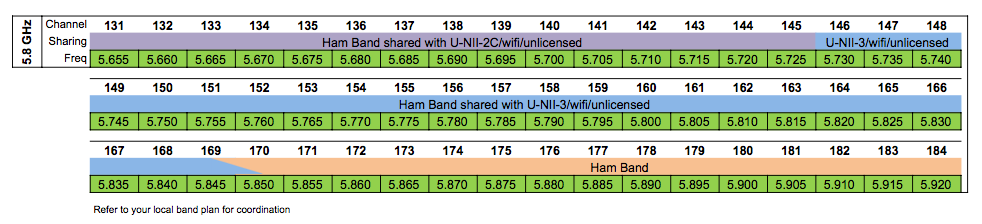
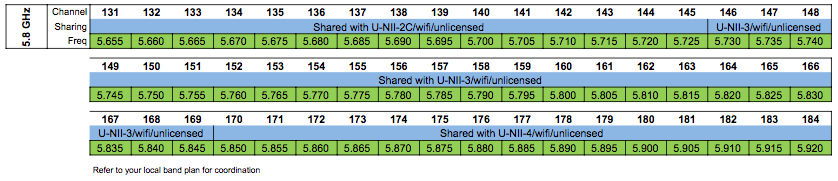
Footnote FCC 9cm sunset ruling (#86)
* Footnote FCC 9cm sunset ruling

Footnote the 2020 FCC ruling to sunset Amateur operations in the 9cm 
band.

* Footnote FCC 9cm sunset ruling

Update 2.4ghz graphic.

* Footnote FCC 9cm sunset ruling

Update U-NII numbering on graphics.

* Footnote FCC 9cm sunset ruling

Remove radiofresnel.com.  Fixes #87

* Footnode FCC 9cm sunset ruling

Add dot-exe to Windows tftp example.

* Footnote FCC 9cm sunset ruling

Include larger graphic for all bands.

* Footnote FCC 9cm sunset ruling

Update iperfspeed URL to point to latest version with fixed security 
vulnerability.

diff --git a/arednNetworkDesign/frequency_bands.rst b/arednNetworkDesign/frequency_bands.rst
@@ -2,26 +2,25 @@
 Radio Spectrum Characteristics
 ==============================
 
-AREDN |trade| networks operate in the microwave radio spectrum, and licensed amateur radio operators have unique access to many of these frequencies. For bands in which amateur operators share the spectrum, there is an increased chance for RF interference which may make some frequencies unusable for AREDN |trade| data networking. For best results, select frequencies that are not shared with other unlicensed users.
+AREDN |trade| networks operate in the microwave radio spectrum, and licensed amateur radio operators have unique access to some of these frequencies. For bands in which amateur operators share the spectrum, there is an increased chance for RF interference which may make some frequencies unusable for AREDN |trade| data networking. For best results, select frequencies that are not being heavily used within the coverage area.
 
-Each band is divided into channels, each of which consists of a 5 MHz frequency offset identified by the center frequency of the channel and assigned a numerical label. In the example below you can see that a selected channel may use more or less of the frequency range based on the chosen channel width. The wider the channel, the more overlap there will be with adjacent channels. Wide channels have the effect of reducing the number of non-overlapping or non-interfering channels that will be available for use. When selecting channels and widths, be sure to use non-overlapping channels. Devices not using the same channel and channel width that overlap will interfere with one another and cannot communicate to coordinate the sharing of bandwidth.
+Each band is divided into channels, each of which consists of a 5 MHz frequency offset identified by the center frequency of the channel and assigned a numerical label. In the example below you can see that a selected channel may use more or less of the frequency range based on the chosen channel width. The wider the channel, the more overlap there will be with adjacent channels. Wide channels have the effect of reducing the number of non-overlapping or non-interfering channels that will be available for use. When selecting channels and widths, be sure to use non-overlapping channels. Devices using channels or channel widths that overlap will interfere with one another and cannot communicate to coordinate the sharing of bandwidth.
 
 .. image:: _images/channel-width-example.png
    :alt: Channel Width Example
    :align: center
 
-All of the 33 cm band is shared with other FCC authorized users. All of the upper channels on the 13 cm band are shared with standard FCC Part 15 :abbr:`WiFi (IEEE 802.11x)` users, as are all of the lower channels on the 5 cm band. The only frequency range which amateur operators do not currently share with non-licensed users is the 9 cm band, in which the US military may occasionally operate radio location units. The following table lists each amateur radio band, frequency range, total bandwidth of allocation, and the number of channels that are available for AREDN |trade| networking.
+Some or all of the bands shown below are shared with other FCC authorized users. For example, all of the upper channels on the 13 cm band are shared with standard FCC Part 15 :abbr:`WiFi (IEEE 802.11x)` users. The following table lists each amateur radio band, frequency range, and the number of channels that are available for AREDN |trade| networking. [footnote]_
 
-=======  =================  ===============  ========
-Band     Frequency Range    Total Bandwidth  Channels
-=======  =================  ===============  ========
-33 cm    902-928   MHz      25 MHz           4
-13 cm    2390-2450 MHz      45 MHz           9
-9  cm    3300-3500 MHz      120 MHz          24
-5  cm    5650-5925 MHz      260 MHz          54
-=======  =================  ===============  ========
+=======  =================  ========
+Band     Frequency Range    Channels
+=======  =================  ========
+33 cm    902-928   MHz      4
+13 cm    2390-2450 MHz      13
+5  cm    5650-5925 MHz      54
+=======  =================  ========
 
-The table above shows that the 9 cm band has the most available bandwidth in its unshared channels, while the 5 cm band has the next largest amount of available bandwidth in unshared channels. The choice of a frequency band for AREDN |trade| networking depends on several different factors, but you can "mix and match" bands in your network design as long as both sides of a radio link use the same band, channel, and channel width.
+The choice of a frequency band for AREDN |trade| networking depends on several different factors, but you can "mix and match" bands in your network design as long as both sides of a radio link use the same band, channel, and channel width.
 
 You have the option of selecting the channel width for each link. When using channels at the top or bottom of a band, be certain that your chosen width will not transmit outside of the FCC Part 97 allocation for that band. Different channel widths may yield better throughput than others. In some areas operators use different channels to isolate links, so they may need to use 10 MHz rather than 20 MHz channels in order to ensure they have enough available channels. Also, long distance links simply have better performance using 10 MHz vs. 20 MHz or 5 MHz channel widths. Test the performance of your links using various channel widths to ensure that they are optimized.
 
@@ -59,21 +58,6 @@ Advantages
 
   One advantage for the 13 cm band is that radio equipment and antenna systems are more readily available and less costly due to higher consumer demand. There is a wide variety of equipment from several manufacturers which supports the AREDN |trade| firmware and operates in this band. With clear line of sight and well-tuned antennas, 2.4 GHz signals can propagate across very long distances.
 
-3.4 GHz Characteristics
------------------------
-
-Disadvantages
-  As mentioned above, there must be clear line of sight and the Fresnel Zone between nodes also must be clear. For a link in the 9 cm band with 10 miles between nodes the first Fresnel Zone radius will be 62 feet, which is less than the 13 cm band discussed above. However, the 60% no blockage radius is still about 37 feet. Consider node :abbr:`AGL (height Above Ground Level)` and terrain in order to minimize obstructions.
-
-  Equipment for the 9 cm band is less readily available and is typically more expensive due to less consumer demand. Care must be taken when selecting radios so as not to confuse them with the more common :abbr:`WiMAX (IEEE 802.16)` devices which are designed for the 3.65 GHz range and are not supported by AREDN |trade| firmware.
-
-.. image:: ../_images/3.4ghz.png
-   :alt: 3.4 GHz Band
-   :align: center
-
-Advantages
-  The main advantage for using the 9 cm band is that it has more available bandwidth for use in unshared channels than any other band. You can select channel widths of 5, 10, or 20 MHz, with larger channel widths providing higher data rates. Remember that reducing the channel width will increase the :abbr:`SNR (Signal to Noise Ratio)` to improve signal quality if that is an issue for a particular link. Equipment in the 9 cm band is well-suited for *Backbone Links* since there is little possibility for interference from other devices sharing these frequencies at tower sites. With clear line of sight and well-tuned antennas, 3.4 GHz signals can propagate across very long distances.
-
 5.8 GHz Characteristics
 -----------------------
 
@@ -85,13 +69,15 @@ Disadvantages
    :align: center
 
 Advantages
-  One advantage for using the 5 cm band is that it contains 54 channels, and many of them at the upper end of the band are under-utilized with less chance of interference. You can choose channel widths of 5, 10, or 20 MHz, with larger channel widths providing higher data rates. Remember that reducing the channel width will increase the :abbr:`SNR (Signal to Noise Ratio)` to improve signal quality if that is an issue for a problem link.
+  One advantage for using the 5 cm band is that it contains 54 channels, and many of them may be under-utilized with less chance of interference. You can choose channel widths of 5, 10, or 20 MHz, with larger channel widths providing higher data rates. Remember that reducing the channel width will increase the :abbr:`SNR (Signal to Noise Ratio)` to improve signal quality if that is an issue for a problem link.
 
   The radio equipment and antenna systems for this band are readily available and are less expensive due to greater consumer demand. There is a wide variety of equipment from several manufacturers which supports the AREDN |trade| firmware and operates across the 54 available channels. Radio and antenna systems for this band which are similar in size to those for other bands will often have higher gain. Devices in the 5 cm band are also well-suited for *Backbone Links* since there is little chance for RF interference from other radios sharing these frequencies at high profile sites. With clear line of sight and well-tuned antennas, 5.8 GHz signals can propagate across very long distances.
 
+Different frequency ranges are available to connect the mesh nodes that are required in order to fulfill the purposes for your network. As you plan the frequencies to be deployed at specific locations, it may be helpful to use a *spectrum analyzer* for identifying ranges that are already in use. The ultimate goal is to have a reliable data network that accomplishes its purpose for providing services to the intended destinations and users.
+
 ----------
 
-Different frequency ranges are available to connect the mesh nodes that are required in order to fulfill the purposes for your network. As you plan the frequencies to be deployed at specific locations, it may be helpful to use a *spectrum analyzer* for identifying ranges that are already in use. The ultimate goal is to have a reliable data network that accomplishes its purpose for providing services to the intended destinations and users.
+.. [footnote] Late in 2020 the `FCC ruled <https://docs.fcc.gov/public/attachments/FCC-20-138A1.pdf>`_ to sunset secondary Amateur allocations in the 9 cm *(3.3-3.5 GHz)* band. Although existing Amateur operations *"may continue while the Commission finalizes plans to reallocate spectrum,"* investing in or implementing new AREDN |trade| devices in this band is not recommended.
 
 
 .. |trade|  unicode:: U+00AE .. Registered Trademark SIGN

diff --git a/arednNetworkDesign/channel_planning.rst b/arednNetworkDesign/channel_planning.rst
@@ -59,17 +59,7 @@ Channel Plans and Frequency Coordination
 
 You may experience poor network performance if there are too many nodes using the same band and channel. Here is a simple example to illustrate the issue: a three-hop path from QTH1 to Tower1 to Tower2 to QTH2. If all links are using the same channel, then only one node at a time can send data. This instantly cuts the throughput by one-third or more and increases latency with protocol overhead. To improve performance you could configure each link to use a different channel, allowing simultaneous transmissions. For example, the collocated tower nodes could be DtD linked via Ethernet, with QTH1 and Tower1 using 5 GHz channel 172 while QTH2 and Tower2 use channel 176. Before this channel plan is implemented it might be possible to have one HD video stream and one VoIP call with frequent dropouts. After the channel plan is implemented it should be possible to have three HD video streams and several VoIP calls simultaneously with few dropouts.
 
-Depending on the frequency band you are using, there are varying options available for assigning non-overlapping unshared channels to your mesh devices. As shown in the chart below, in the 2.4 GHz band using a 5 MHz channel width there are only two non-overlapping channels which are not already shared with other unlicensed users. In the 3.4 GHz band using the even-numbered 10 MHz channels, there are eleven non-overlapping channels. In the 5.8 GHz band using even-numbered 10 MHz channels, there are 25 non-overlapping channels, but only eight of them are not shared with other potential users of the spectrum.
-
-=======  ===============  =================================
-Band     Channel Width    Unshared Non-overlapping Channels
-=======  ===============  =================================
-2.4 GHz  5 MHz            2
-3.4 GHz  10 MHz           11
-5.8 GHz  10 MHz           8
-=======  ===============  =================================
-
-Ideally, RF coverage zones (sometimes called "cells") should use different channels. Overlapping cell coverage can provide broader connectivity, but the overlapping coverage zones should not use overlapping RF frequencies.
+Depending on the frequency band you are using, there are varying options available for assigning non-overlapping channels to your mesh devices. For example, in the 5.8 GHz band using even-numbered 10 MHz channels, there are 25 non-overlapping channels. Ideally, RF coverage zones (sometimes called "cells") should use different channels. Overlapping cell coverage can provide broader connectivity, but the overlapping coverage zones should not use overlapping RF frequencies.
 
 .. image:: _images/channel-reuse-example.png
    :alt: Example Channel Reuse Plan
@@ -91,7 +81,7 @@ Device to Device (DtD) Linking
 
 In its most basic configuration for two collocated nodes, an Ethernet cable is connected between the PoE *LAN* port of each device. :abbr:`OLSR (Optimized Link State Routing protocol)` will assign a very low "link cost" (0.1) to the DtD connection and automatically route traffic between the nodes over Ethernet rather than causing the RF channel to become busy.
 
-One added benefit of DtD linking is that you can link nodes which are operating on different bands and channels. Nodes that are using *Channel Separation* to segment traffic can still pass data at high speeds through their DtD link and be members of a single network. At a tower site like the one shown here, you could link 2.4 GHz, 3.4 GHz, and 5.8 GHz nodes to the same network. In fact, at a busy site like this it is best practice to use DtD linking, because otherwise RF channel contention could make the network unusable.
+One added benefit of DtD linking is that you can link nodes which are operating on different bands and channels. Nodes that are using *Channel Separation* to segment traffic can still pass data at high speeds through their DtD link and be members of a single network. At a tower site like the one shown here, you could link 2.4 GHz and 5.8 GHz nodes to the same network. In fact, at a busy site like this it is best practice to use DtD linking, because otherwise RF channel contention could make the network unusable.
 
 Ideally you should configure your collocated nodes to use different bands and channels, then set up DtD links between the nodes to ensure that traffic is routed efficiently without generating RF contention or delays. :abbr:`OLSR (Optimized Link State Routing protocol)` will always choose the DtD path first when passing traffic between linked nodes. Each AREDN |trade| node recognizes incoming packets tagged with :abbr:`VLAN (Virtual Local Area Network)` 2 as DtD traffic.
 
@@ -126,7 +116,7 @@ Channel Planning Tips
 
    If there are two towers or cell coverage areas within range of each other, configure the nodes with different channels to avoid poor performance.
 
-Based on the purpose for your network, try to create reliable paths to the locations where data is needed. Use channel separation and DtD linking of collocated nodes to avoid RF channel contention. The 3.4 GHz and 5.8 GHz bands provide the most unshared channels for use in AREDN |trade| networks.
+Based on the purpose for your network, try to create reliable paths to the locations where data is needed. Use channel separation and DtD linking of collocated nodes to avoid RF channel contention.
 
 * If you need broad local coverage for a high profile area you can install sector antennas on a tower site: for example, three panels with 120 degree beam width each. DtD link the sectors at the tower site, and use different channels for each sector to avoid channel contention.
 

diff --git a/arednGettingStarted/selecting_devices.rst b/arednGettingStarted/selecting_devices.rst
@@ -6,7 +6,7 @@ The amateur radio community has recognized the benefits of using inexpensive com
 
 When selecting a device for your AREDN |trade| hardware there are several things to consider in your decision.
 
-* Radios should be purchased for the specific frequency band on which they will operate. Currently AREDN |trade| supports devices which operate in the 900 MHz, 2.4 GHz, 3.4 GHz, and 5.8 GHz bands.
+* Radios should be purchased for the specific frequency band on which they will operate. Currently AREDN |trade| supports devices which operate in several bands. Check the AREDN |trade| `website <https://arednmesh.org>`_ for the latest information.
 * Many devices come with an integrated dual-polarity :abbr:`MIMO (Multiple Input-Multiple Output)` antenna which helps to mitigate multipath propagation issues.
 * Radios can be purchased separately from the antenna, so it is possible to have more than one antenna option for a radio in order to optimize AREDN |trade| nodes for varying deployment conditions.
 * Costs of devices range from $50 to several hundred dollars for a complete node, so there are many options even for the budget-conscious operator.

diff --git a/arednHow-toGuides/iperf.rst b/arednHow-toGuides/iperf.rst
@@ -9,7 +9,7 @@ Understand the impact to your network before using iperf. During the test period
 Installing iperf and IperfSpeed
 -------------------------------
 
-Two packages should be installed on each AREDN |trade| node in order to facilitate testing between nodes. The **iperf3** package allows the nodes to function either as an iperf client or server during the test, and it can be found in the *base* package download section. The `iperfspeed <https://s3.amazonaws.com/aredn/iperfspeed_0.5_all.ipk>`_ package provides a web-based control interface for running network tests between the nodes.
+Two packages should be installed on each AREDN |trade| node in order to facilitate testing between nodes. The **iperf3** package allows the nodes to function either as an iperf client or server during the test, and it can be found in the *base* package download section. The `iperfspeed <https://aredn.s3.amazonaws.com/iperfspeed_0.5.1_all.ipk>`_ package provides a web-based control interface for running network tests between the nodes.
 
 Using IperfSpeed
 ----------------

diff --git a/appendix/freq_charts.rst b/appendix/freq_charts.rst
@@ -2,30 +2,10 @@
 Frequencies and Channels
 ========================
 
-The frequencies and channels that are available for AREDN |trade| networking are shown in the charts below.
+The frequencies and channels that are available for AREDN |trade| networking are shown in the diagram below.
 
-**900 MHz**
-
-.. image:: ../_images/900mhz.png
-   :alt: 900 MHz Band
-   :align: center
-
-**2.4 GHz**
-
-.. image:: ../_images/2.4ghz.png
-   :alt: 2.4 GHz Channels
-   :align: center
-
-**3.4 GHz**
-
-.. image:: ../_images/3.4ghz.png
-   :alt: 3.4 GHz Channels
-   :align: center
-
-**5.8 GHz**
-
-.. image:: ../_images/5.8ghz.png
-   :alt: 5.8 GHz Channels
+.. image:: ../_images/AREDN-bands.png
+   :alt: AREDN bands and channels
    :align: center
 
 

diff --git a/arednNetworkDesign/network_modeling.rst b/arednNetworkDesign/network_modeling.rst
@@ -66,21 +66,6 @@ Simply click on the map at the bottom of the webpage to add an endpoint for each
 
 ----
 
-Radio Fresnel Tool
-++++++++++++++++++
-
-This web-based tool will generate a KML file which can be viewed as a 3D path profile using *Google Earth* software. Radio Fresnel is available here: http://www.radiofresnel.com
-
-Simply enter the required site information into the online form and click the *Get KML* button at the bottom of the webpage. There is a sample KML file as well as a video tutorial for how to use the tool.
-
-----
-
-.. image:: _images/radiofresnel.png
-   :alt: Radio Fresnel Tool
-   :align: center
-
-----
-
 Determining Node or Network Coverage
 ------------------------------------
 

diff --git a/arednGettingStarted/installing_firmware.rst b/arednGettingStarted/installing_firmware.rst
@@ -63,7 +63,7 @@ Download the appropriate *factory* file for your device by following the instruc
     [For example, put /temp/aredn-<release>-factory.bin]
   -----------------------------------
   [Windows with command on a single line]
-  > tftp -i 192.168.1.20 put C:\temp\aredn-<release>-factory.bin
+  > tftp.exe -i 192.168.1.20 put C:\temp\aredn-<release>-factory.bin
 
   The TFTP client should indicate that data is being transferred and eventually completes.
 
